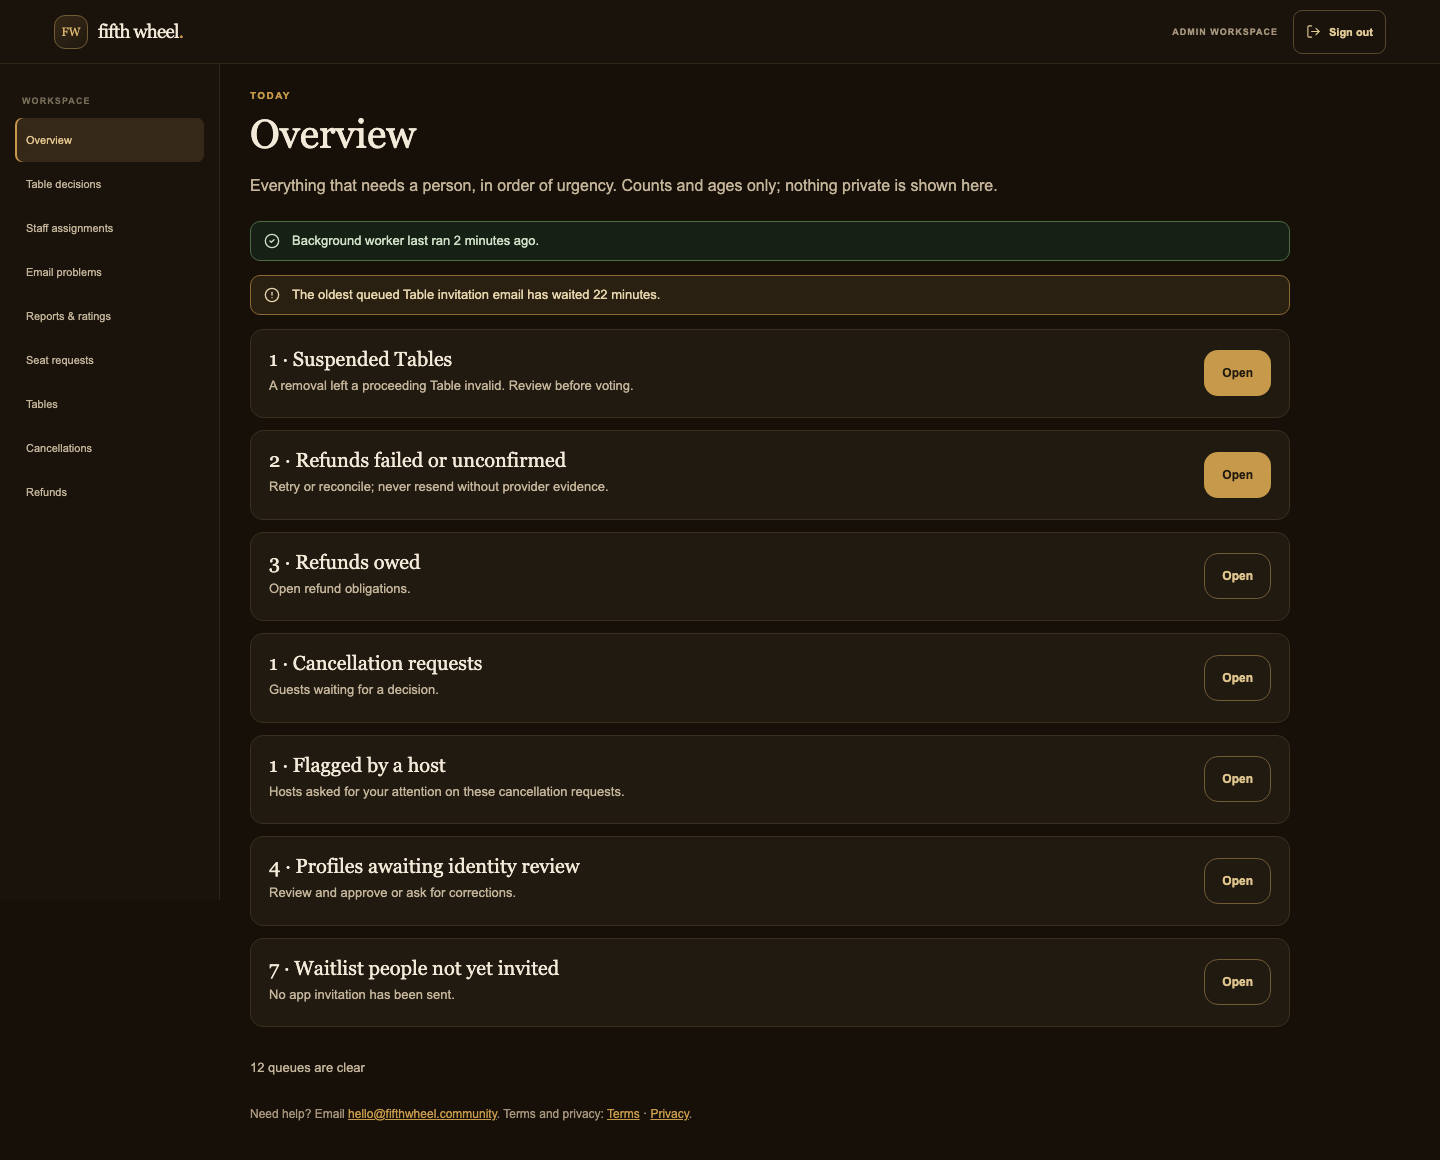
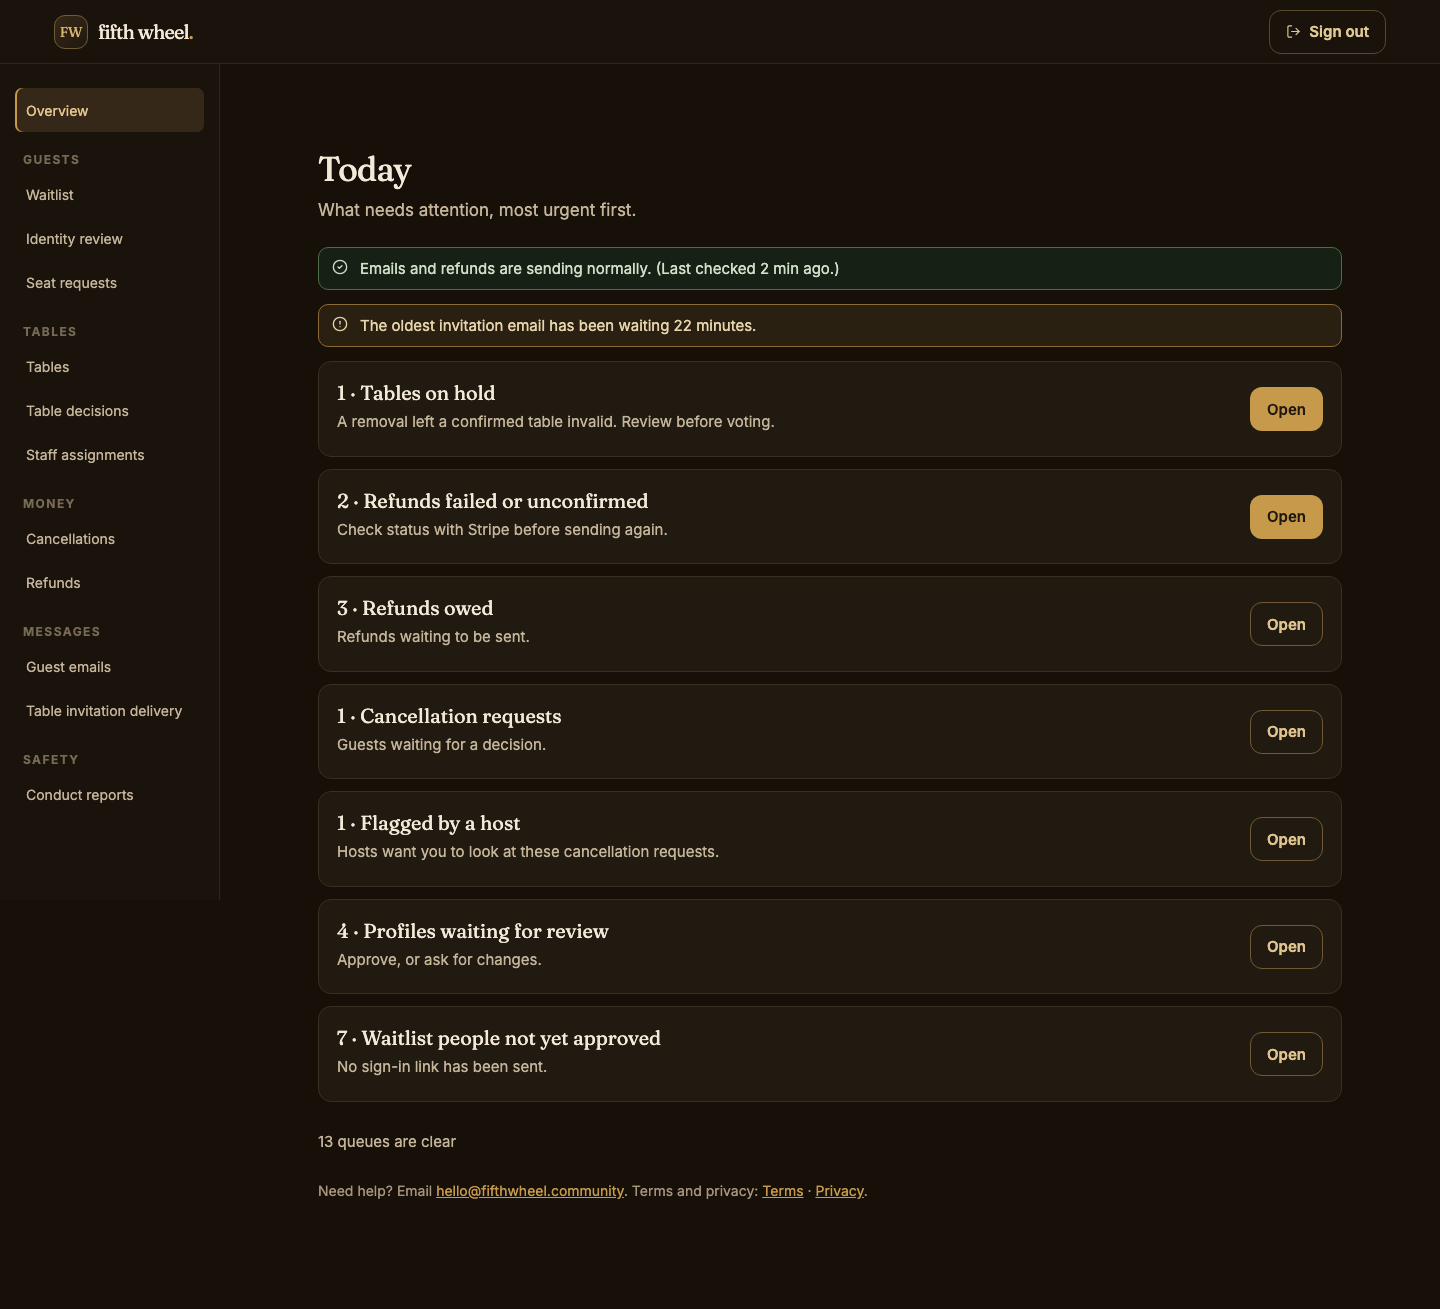
W10.4: mock-only browser check and screenshots for the Stripe check card

diff --git a/app/tests/browser/w10-overview-ui.mock-only.spec.ts b/app/tests/browser/w10-overview-ui.mock-only.spec.ts
@@ -69,3 +69,30 @@ test("email problems: unknown vs failed are explained and Send again / Dismiss p
   await expect(page.getByRole("heading", { name: "No email problems" })).toBeVisible();
   expect(seen[0].body).toEqual({ action: "retry" });
 });
+
+test("stripe check: open differences are listed with plain labels and ids; card links to them; 390px does not overflow", async ({ page, context }) => {
+  await mkdir(shots, { recursive: true });
+  await context.route("**/*", async (route) => {
+    const url = new URL(route.request().url());
+    if (url.origin !== origin) return route.abort();
+    if (url.pathname === "/api/admin/overview") return route.fulfill({ json: { ok: true, correlationId: "m", data: { generatedAt: "2026-12-12T12:00:00Z", counts: { ...counts, reconciliationOpen: 2 },
+      heartbeat: { lastRunAt: "2026-12-12T11:58:00Z", ageMinutes: 2, healthy: true }, reconciliationLastOkAt: "2026-12-12T03:00:00Z",
+      reconciliation: [{ kind: "paid_not_recorded", ref: "pi_3Qabc123", detail: { amountCents: 2500 }, firstSeenAt: "2026-12-12T03:00:00Z" },
+        { kind: "refund_outside_app", ref: "re_3Qdef456", detail: { amountCents: 2500, status: "succeeded" }, firstSeenAt: "2026-12-12T03:00:00Z" }] } } });
+    if (url.pathname.startsWith("/api/")) return route.abort();
+    return route.continue();
+  });
+  await page.goto("/admin");
+  const card = page.locator(".ops-card").filter({ hasText: "Stripe and our records disagree" });
+  await expect(card.getByRole("link", { name: "Open" })).toHaveAttribute("href", "#stripe-differences");
+  const section = page.locator("#stripe-differences");
+  await expect(section.getByText("Stripe took a payment we have no record of")).toBeVisible();
+  await expect(section.getByText("pi_3Qabc123")).toBeVisible();
+  await expect(section.getByText(/\$25\.00/).first()).toBeVisible();
+  await expect(section.getByText(/Cents/)).toHaveCount(0);
+  await expect(section.getByText("Refund made outside the app")).toBeVisible();
+  await page.screenshot({ path: `${shots}/w10-stripe-check-desktop-mock-only.png`, fullPage: true });
+  await page.setViewportSize({ width: 390, height: 844 });
+  expect(await page.evaluate(() => document.documentElement.scrollWidth <= window.innerWidth)).toBe(true);
+  await page.screenshot({ path: `${shots}/w10-stripe-check-390px-mock-only.png`, fullPage: true });
+});
